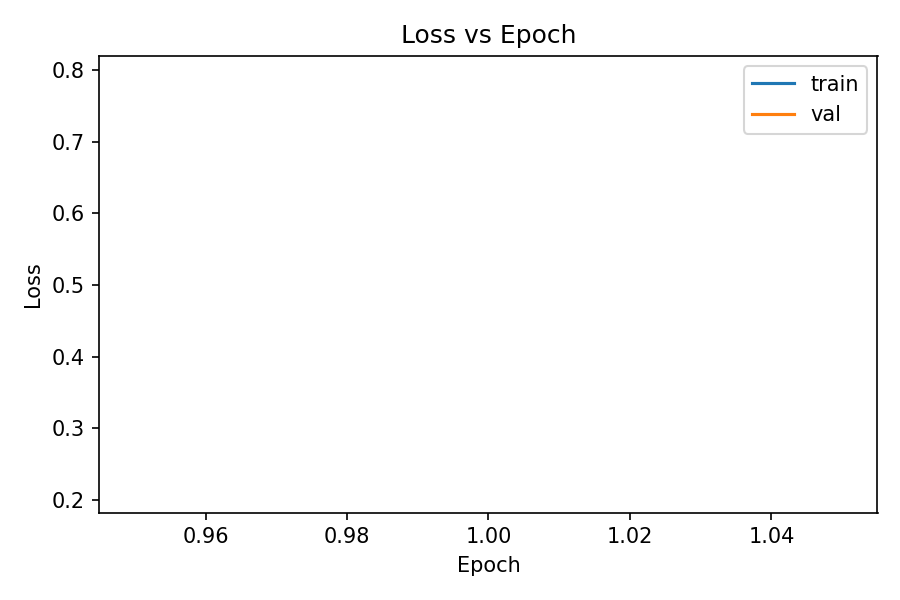
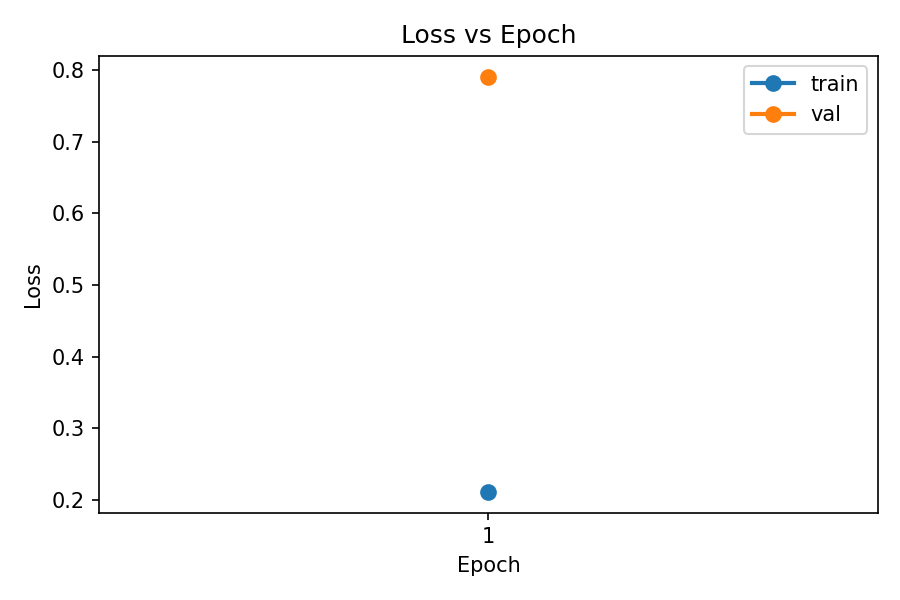
Fix single-epoch teacher-student plots

diff --git a/src/plots.py b/src/plots.py
@@ -18,6 +18,21 @@ def read_jsonl(path: Path) -> list[dict]:
     return rows
 
 
+def configure_epoch_axis(ax, epochs: pd.Series) -> None:
+    values = epochs.tolist()
+    ax.set_xticks(values)
+    if len(values) == 1:
+        epoch = float(values[0])
+        ax.set_xlim(epoch - 0.5, epoch + 0.5)
+
+
+def plot_series(ax, epochs: pd.Series, values: pd.Series, label: str | None = None) -> None:
+    kwargs = {"marker": "o", "linewidth": 2, "markersize": 7}
+    if label is not None:
+        kwargs["label"] = label
+    ax.plot(epochs, values, **kwargs)
+
+
 def main() -> None:
     parser = argparse.ArgumentParser()
     parser.add_argument("--metrics-log", required=True)
@@ -32,8 +47,9 @@ def main() -> None:
     per_image = pd.read_csv(args.per_image)
 
     fig, ax = plt.subplots(figsize=(6, 4))
-    ax.plot(history["epoch"], history["train_loss"], label="train")
-    ax.plot(history["epoch"], history["val_loss"], label="val")
+    plot_series(ax, history["epoch"], history["train_loss"], label="train")
+    plot_series(ax, history["epoch"], history["val_loss"], label="val")
+    configure_epoch_axis(ax, history["epoch"])
     ax.set_xlabel("Epoch")
     ax.set_ylabel("Loss")
     ax.set_title("Loss vs Epoch")
@@ -43,7 +59,8 @@ def main() -> None:
     plt.close(fig)
 
     fig, ax = plt.subplots(figsize=(6, 4))
-    ax.plot(history["epoch"], history["val_abs_rel"])
+    plot_series(ax, history["epoch"], history["val_abs_rel"])
+    configure_epoch_axis(ax, history["epoch"])
     ax.set_xlabel("Epoch")
     ax.set_ylabel("AbsRel")
     ax.set_title("Validation AbsRel vs Epoch")
@@ -52,7 +69,8 @@ def main() -> None:
     plt.close(fig)
 
     fig, ax = plt.subplots(figsize=(6, 4))
-    ax.plot(history["epoch"], history["val_delta1"])
+    plot_series(ax, history["epoch"], history["val_delta1"])
+    configure_epoch_axis(ax, history["epoch"])
     ax.set_xlabel("Epoch")
     ax.set_ylabel("delta1")
     ax.set_title("Validation delta1 vs Epoch")